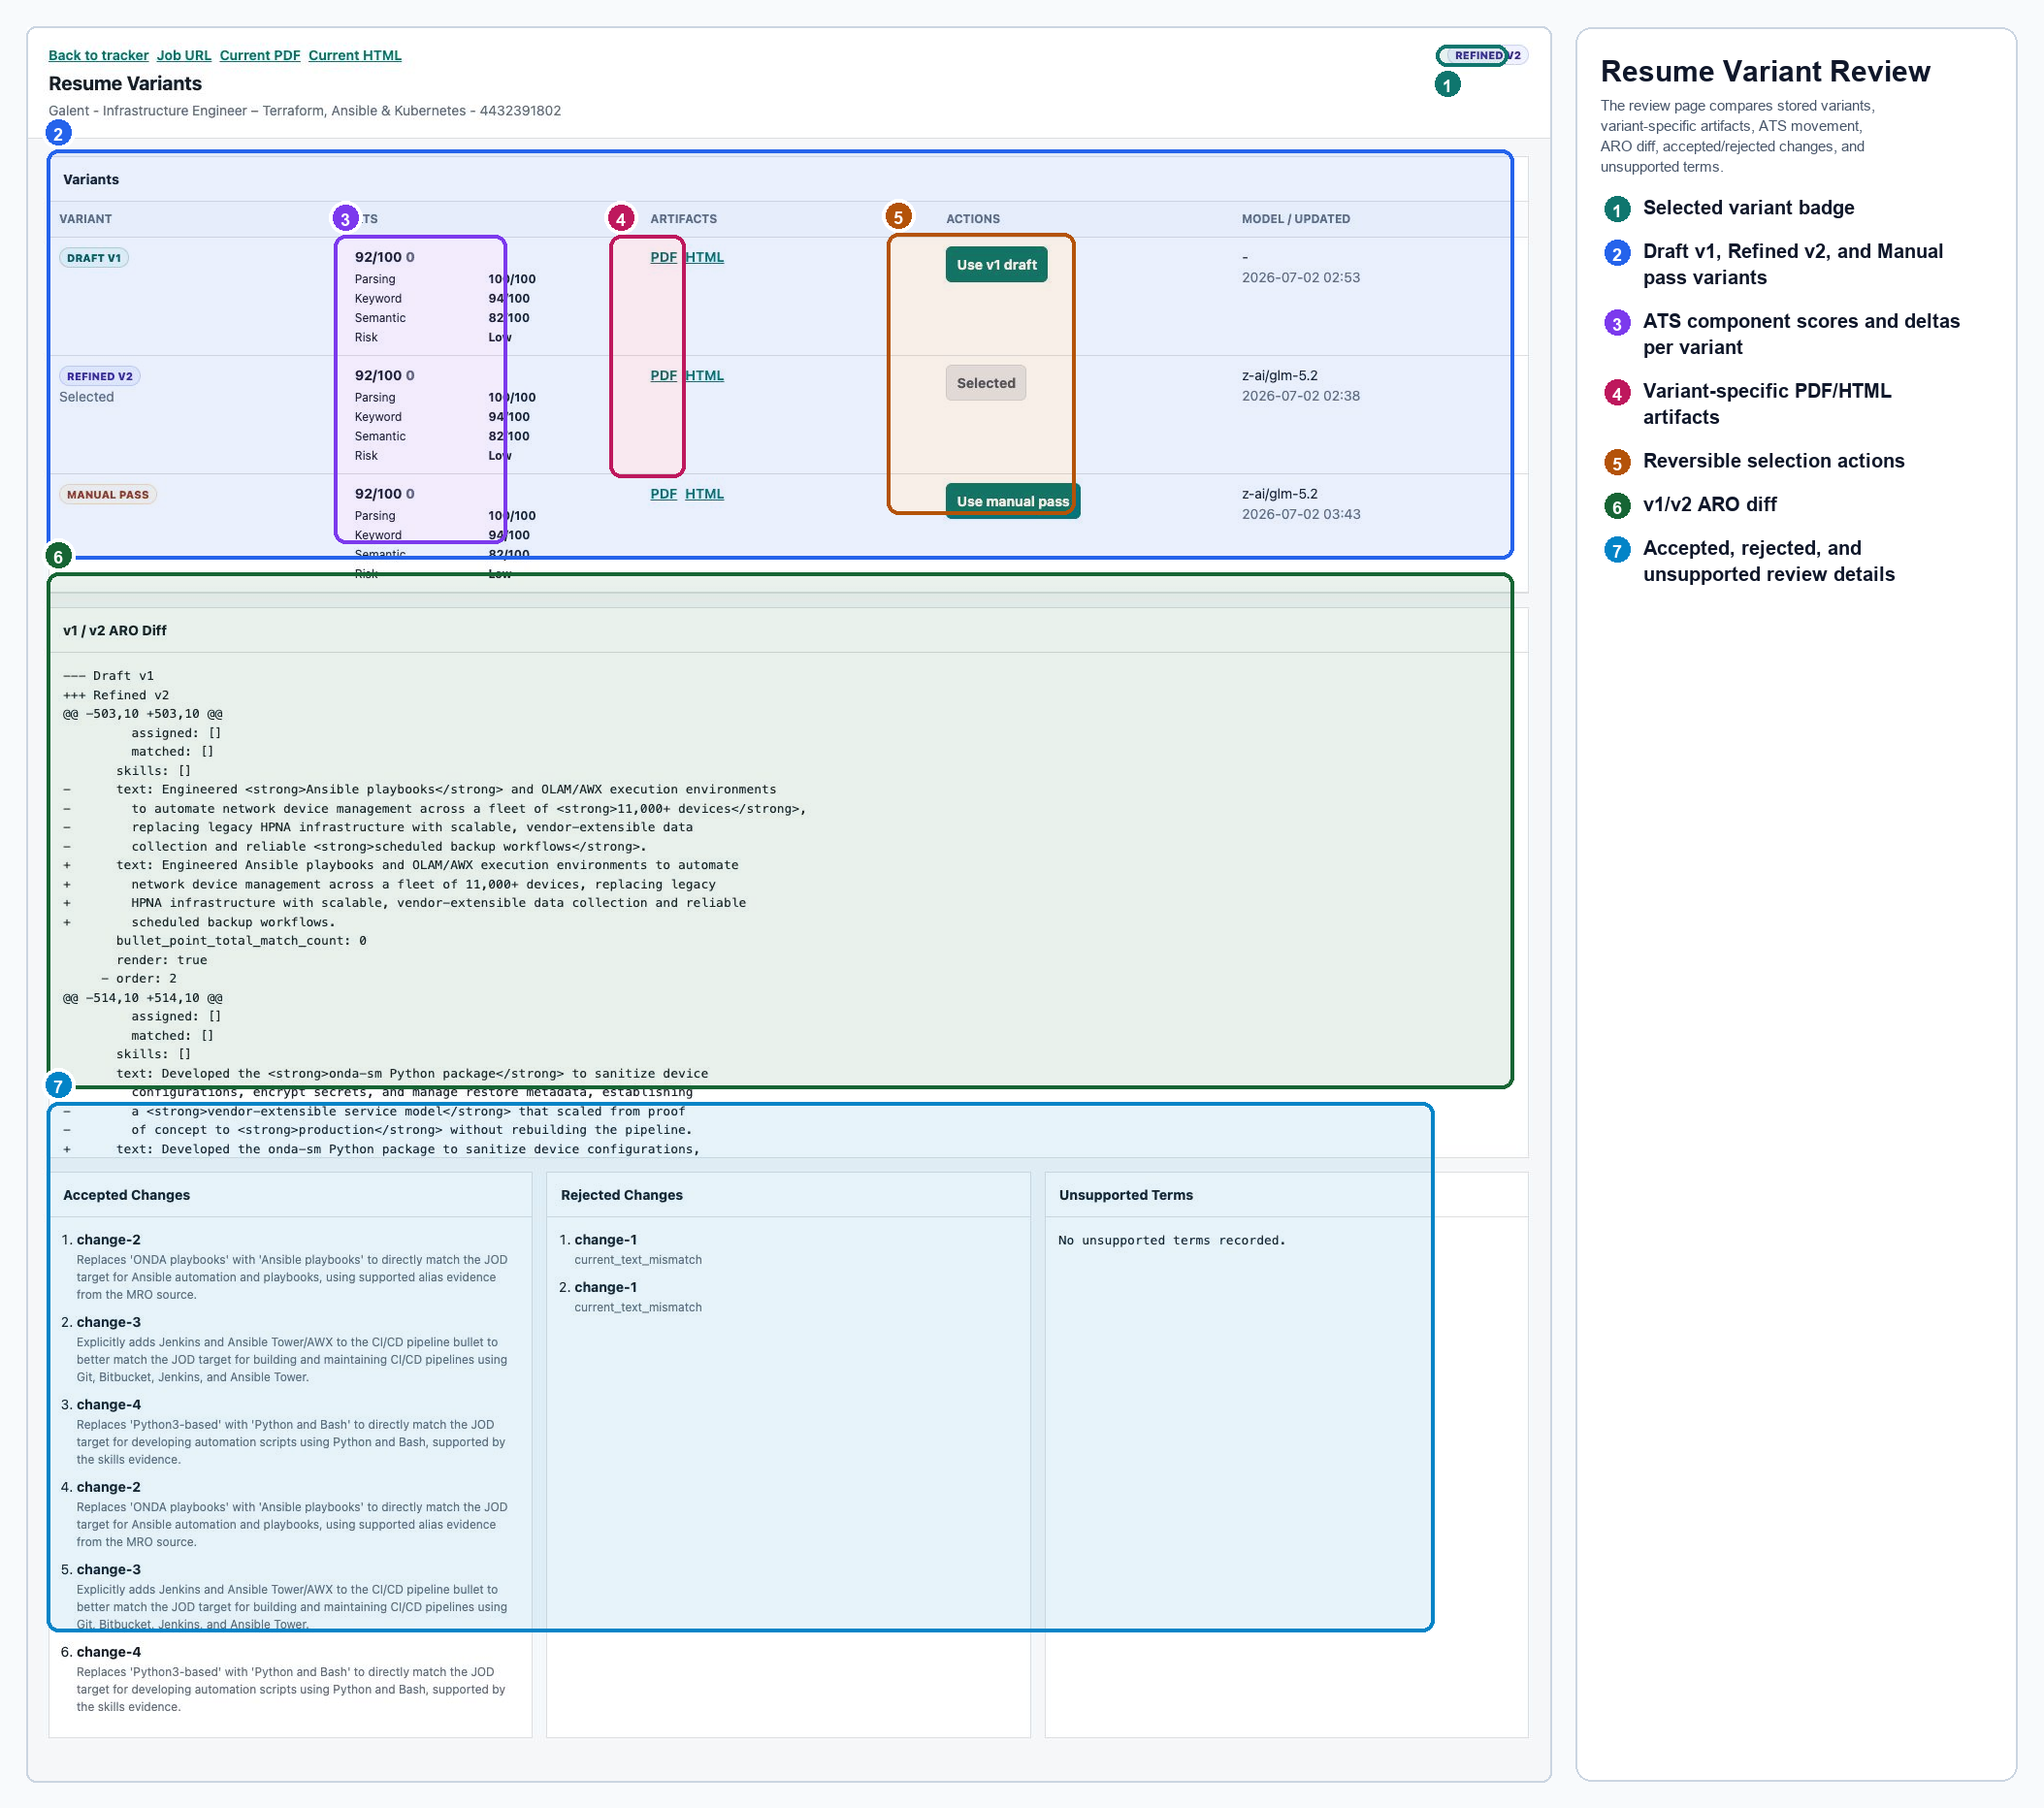
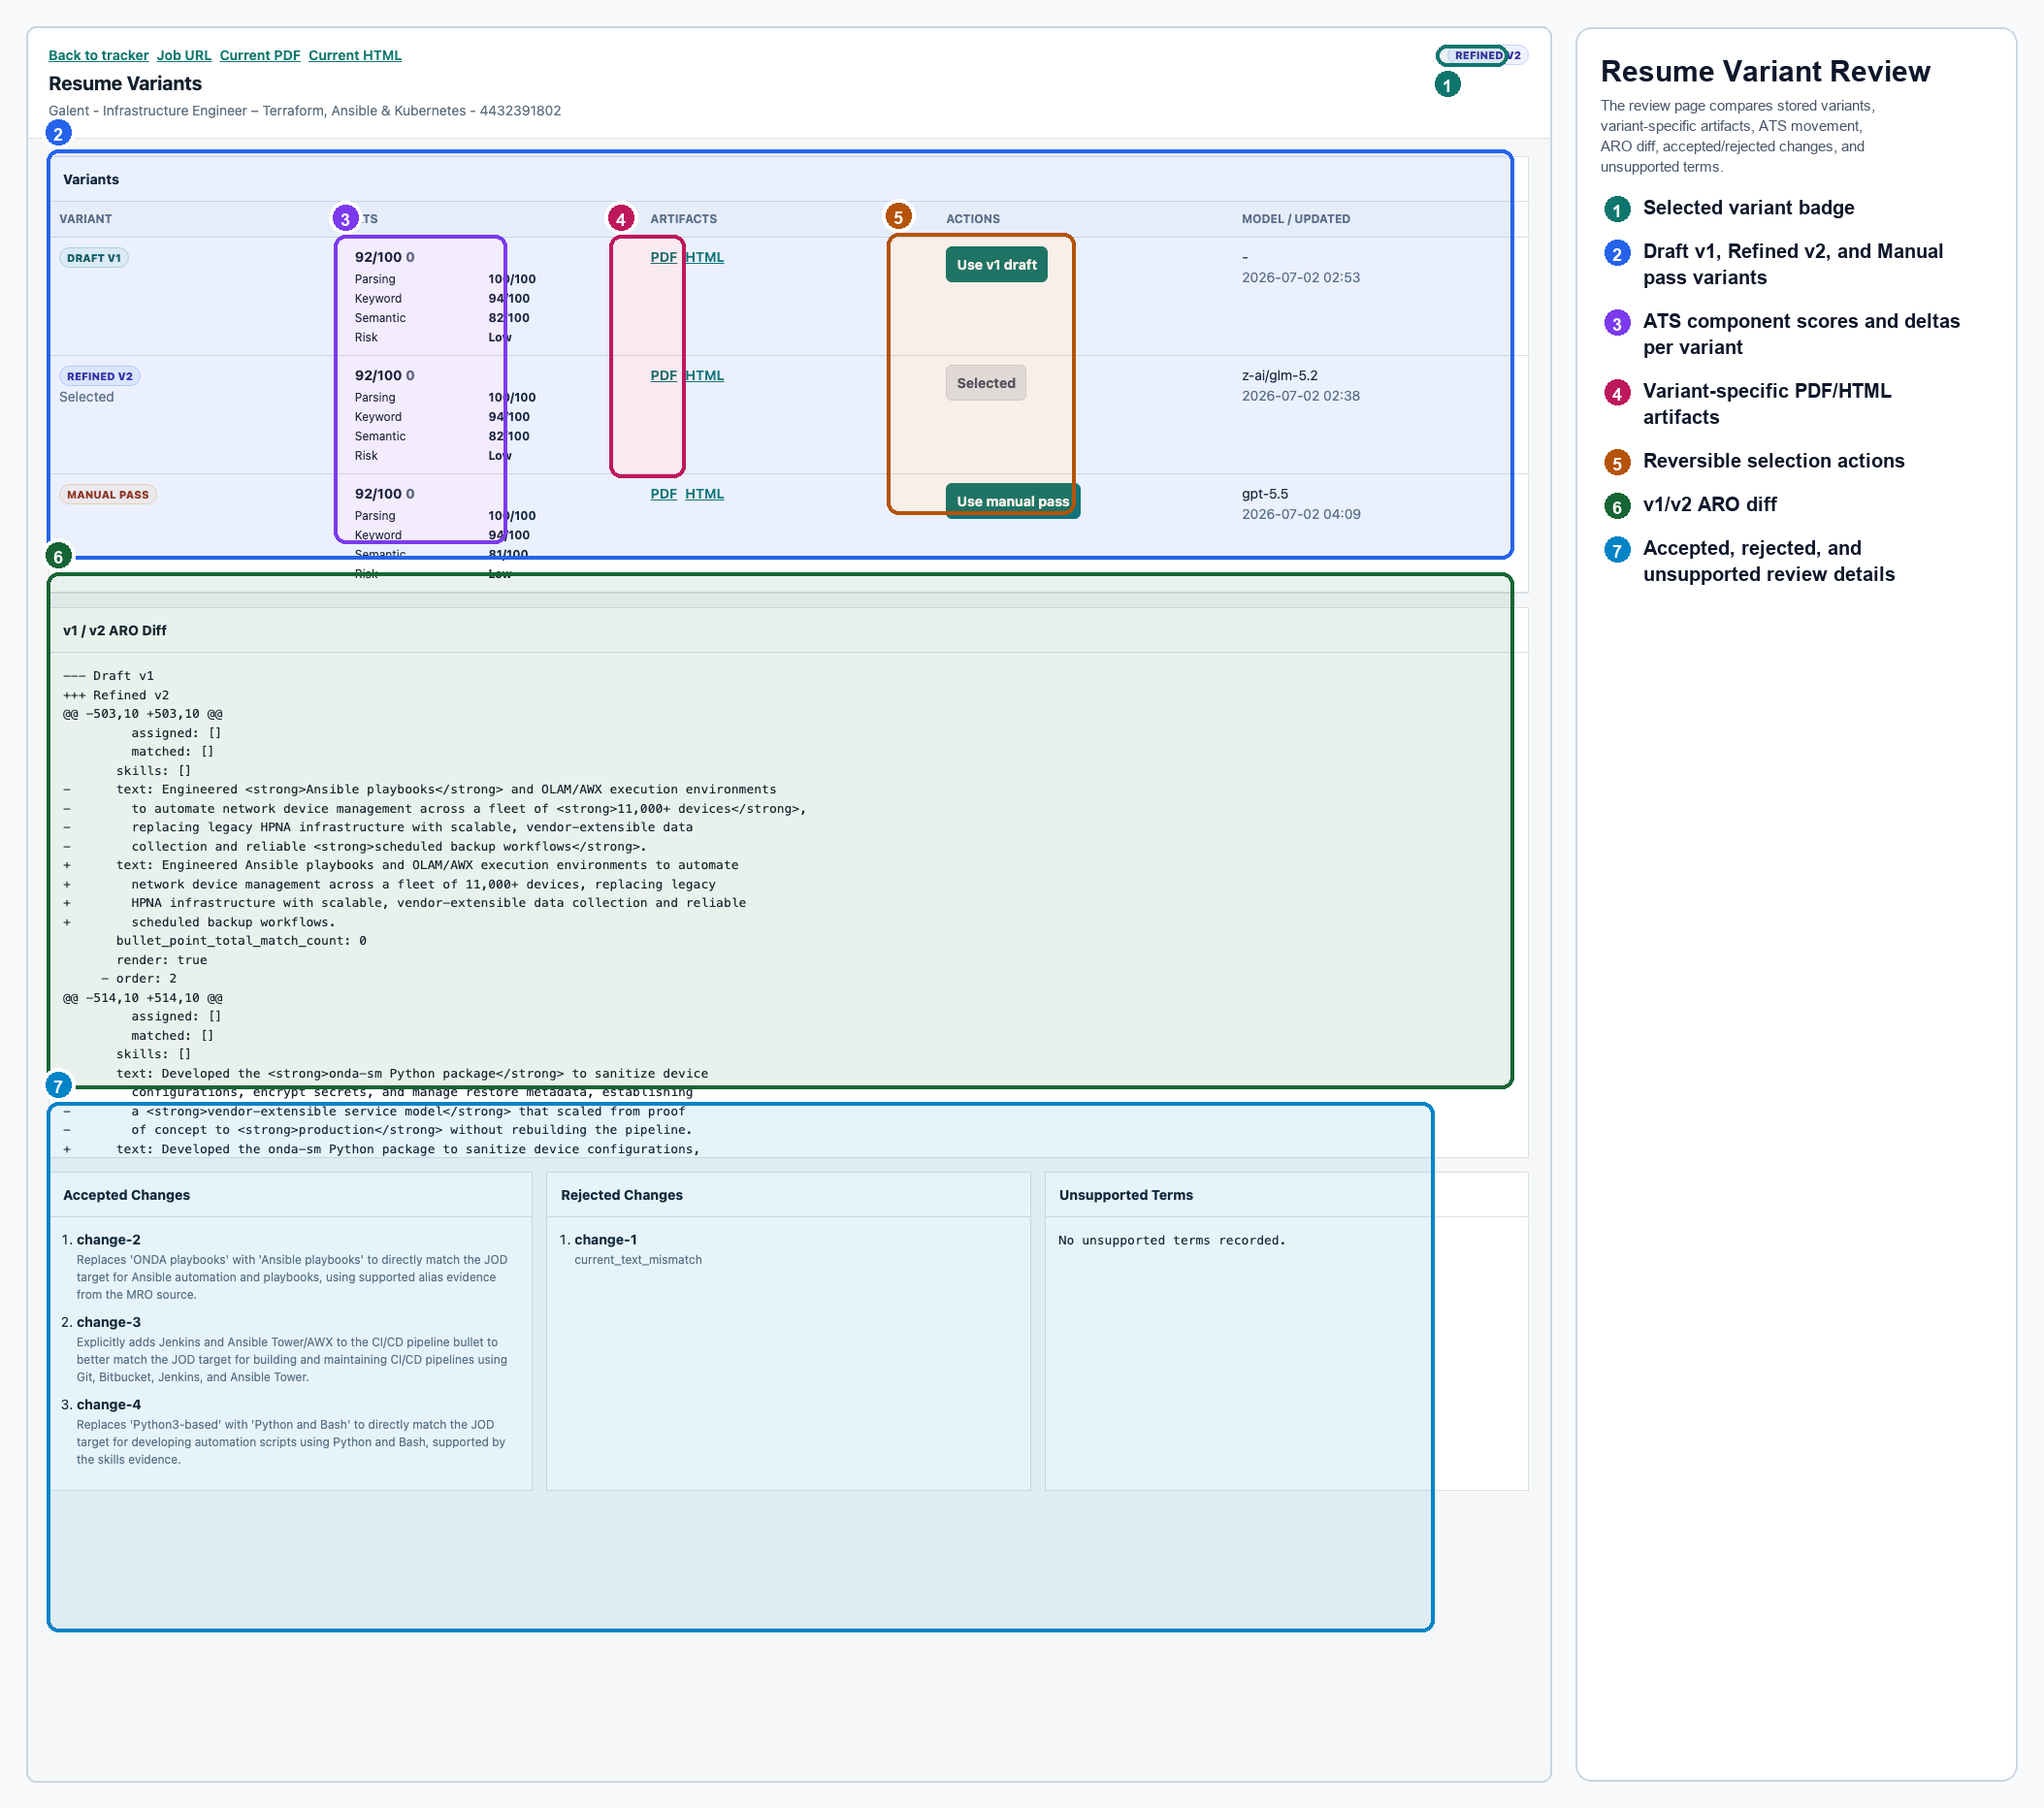
Deduplicate variant review details

Changed region(s): [[0.0308, 0.809, 0.2468, 0.9646]]

diff --git a/src/linkedin_career_mcp/webapp.py b/src/linkedin_career_mcp/webapp.py
@@ -1246,6 +1246,44 @@ def _resume_variant_summary(
     }
 
 
+def _resume_variant_review_details(variants: list[dict[str, Any]]) -> dict[str, Any]:
+    accepted_changes: list[dict[str, Any]] = []
+    rejected_changes: list[dict[str, Any]] = []
+    unsupported_claims: list[str] = []
+    seen_accepted: set[str] = set()
+    seen_rejected: set[str] = set()
+    seen_claims: set[str] = set()
+
+    for variant in variants:
+        for change in variant["accepted_changes"]:
+            key = _stable_review_key(change)
+            if key in seen_accepted:
+                continue
+            seen_accepted.add(key)
+            accepted_changes.append(change)
+        for rejected in variant["rejected_changes"]:
+            key = _stable_review_key(rejected)
+            if key in seen_rejected:
+                continue
+            seen_rejected.add(key)
+            rejected_changes.append(rejected)
+        for claim in variant["unsupported_claims"]:
+            if claim in seen_claims:
+                continue
+            seen_claims.add(claim)
+            unsupported_claims.append(claim)
+
+    return {
+        "accepted_changes": accepted_changes,
+        "rejected_changes": rejected_changes,
+        "unsupported_claims": unsupported_claims,
+    }
+
+
+def _stable_review_key(value: Any) -> str:
+    return json.dumps(value, sort_keys=True, ensure_ascii=True, default=str)
+
+
 def _string_list(value: Any) -> list[str]:
     if not isinstance(value, list):
         return []
@@ -2677,6 +2715,7 @@ def create_app(
             RESUME_VARIANTS_TEMPLATE,
             row=row,
             variants=variants,
+            review_details=_resume_variant_review_details(variants),
             diff_text=_resume_variant_unified_diff(v1_variant, v2_variant),
             return_to=_safe_index_return_path(request.args.get("return_to")),
         )
@@ -5980,23 +6019,15 @@ RESUME_VARIANTS_TEMPLATE = """
     <div class="review-grid">
       <section>
         <h2>Accepted Changes</h2>
-        {% set accepted_total = namespace(count=0) %}
-        {% for variant in variants %}
-          {% for change in variant.accepted_changes %}
-            {% set accepted_total.count = accepted_total.count + 1 %}
-          {% endfor %}
-        {% endfor %}
-        {% if accepted_total.count %}
+        {% if review_details.accepted_changes %}
           <ol class="review-list">
-            {% for variant in variants %}
-              {% for change in variant.accepted_changes %}
-                <li>
-                  <strong>{{ change.change_id }}</strong>
-                  {% if change.rationale %}
-                    <span class="issue">{{ change.rationale }}</span>
-                  {% endif %}
-                </li>
-              {% endfor %}
+            {% for change in review_details.accepted_changes %}
+              <li>
+                <strong>{{ change.change_id }}</strong>
+                {% if change.rationale %}
+                  <span class="issue">{{ change.rationale }}</span>
+                {% endif %}
+              </li>
             {% endfor %}
           </ol>
         {% else %}
@@ -6006,26 +6037,18 @@ RESUME_VARIANTS_TEMPLATE = """
 
       <section>
         <h2>Rejected Changes</h2>
-        {% set rejected_total = namespace(count=0) %}
-        {% for variant in variants %}
-          {% for rejected in variant.rejected_changes %}
-            {% set rejected_total.count = rejected_total.count + 1 %}
-          {% endfor %}
-        {% endfor %}
-        {% if rejected_total.count %}
+        {% if review_details.rejected_changes %}
           <ol class="review-list">
-            {% for variant in variants %}
-              {% for rejected in variant.rejected_changes %}
-                <li>
-                  <strong>{{ rejected.change_id }}</strong>
-                  {% for issue in rejected.issues or [] %}
-                    <span class="issue">
-                      {{ issue.reason or 'issue' }}
-                      {% if issue.message %}: {{ issue.message }}{% endif %}
-                    </span>
-                  {% endfor %}
-                </li>
-              {% endfor %}
+            {% for rejected in review_details.rejected_changes %}
+              <li>
+                <strong>{{ rejected.change_id }}</strong>
+                {% for issue in rejected.issues or [] %}
+                  <span class="issue">
+                    {{ issue.reason or 'issue' }}
+                    {% if issue.message %}: {{ issue.message }}{% endif %}
+                  </span>
+                {% endfor %}
+              </li>
             {% endfor %}
           </ol>
         {% else %}
@@ -6035,18 +6058,10 @@ RESUME_VARIANTS_TEMPLATE = """
 
       <section>
         <h2>Unsupported Terms</h2>
-        {% set unsupported_total = namespace(count=0) %}
-        {% for variant in variants %}
-          {% for claim in variant.unsupported_claims %}
-            {% set unsupported_total.count = unsupported_total.count + 1 %}
-          {% endfor %}
-        {% endfor %}
-        {% if unsupported_total.count %}
+        {% if review_details.unsupported_claims %}
           <ol class="review-list">
-            {% for variant in variants %}
-              {% for claim in variant.unsupported_claims %}
-                <li>{{ claim }}</li>
-              {% endfor %}
+            {% for claim in review_details.unsupported_claims %}
+              <li>{{ claim }}</li>
             {% endfor %}
           </ol>
         {% else %}

diff --git a/tests/test_webapp.py b/tests/test_webapp.py
@@ -832,6 +832,47 @@ def test_resume_variant_review_selects_v2_and_v1_reversibly(tmp_path: Path):
         },
         model_metadata={"model": "z-ai/glm-5.2"},
     )
+    webapp.store_application_resume_variant(
+        database_path=database_path,
+        job_id="123",
+        variant_key="manual",
+        variant_label="Manual pass",
+        source="manual_pass",
+        parent_variant_key="v2",
+        application_resume_object="schema_version: test\nsummary: Manual pass\n",
+        resume_html="<html><body><h1>Manual pass</h1></body></html>",
+        resume_pdf=v2_pdf,
+        validation={
+            "accepted_change_ids": ["summary-1"],
+            "rejected_changes": [
+                {
+                    "change_id": "skills-1",
+                    "issues": [
+                        {
+                            "reason": "unsupported_target",
+                            "message": "Skill was not backed by evidence.",
+                        }
+                    ],
+                }
+            ],
+            "is_valid": False,
+        },
+        critique={
+            "proposed_changes": [
+                {
+                    "change_id": "summary-1",
+                    "rationale": "Tightens the platform summary.",
+                    "unsupported_claims": [],
+                },
+                {
+                    "change_id": "skills-1",
+                    "rationale": "Adds a tool term.",
+                    "unsupported_claims": ["Kubernetes"],
+                },
+            ],
+        },
+        model_metadata={"model": "z-ai/glm-5.2"},
+    )
 
     app = create_app(database_path=database_path, output_dir=tmp_path / "output")
     client = app.test_client()
@@ -848,6 +889,7 @@ def test_resume_variant_review_selects_v2_and_v1_reversibly(tmp_path: Path):
     assert "Resume Variants" in review_html
     assert "Draft v1" in review_html
     assert "Refined v2" in review_html
+    assert "Manual pass" in review_html
     assert "Use v2 draft" in review_html
     assert 'href="/resumes/123/variants/v1"' in review_html
     assert 'href="/resume-html/123/variants/v2"' in review_html
@@ -856,6 +898,10 @@ def test_resume_variant_review_selects_v2_and_v1_reversibly(tmp_path: Path):
     assert "skills-1" in review_html
     assert "unsupported_target" in review_html
     assert "Kubernetes" in review_html
+    assert review_html.count("summary-1") == 1
+    assert review_html.count("skills-1") == 1
+    assert review_html.count("unsupported_target") == 1
+    assert review_html.count("Kubernetes") == 1
     assert "-summary: Draft v1" in review_html
     assert "+summary: Refined v2" in review_html
 
